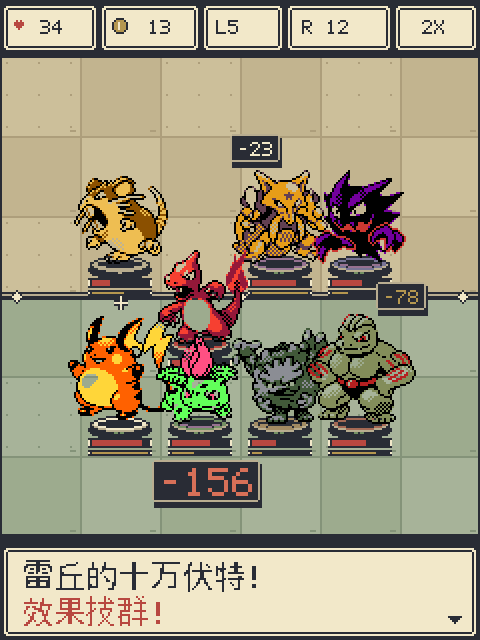
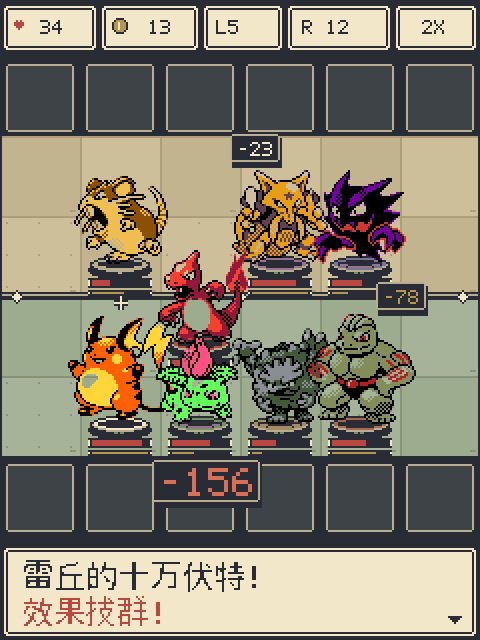
C-sym 棋盘联动：6×4 战场 + 双备战观战行（sim+渲染），检查器三处修复
- 战斗网格 7×6→6×4（敌 0-1/我 2-3），备战行为准备页概念不进网格（docs/10 §1.5 裁定）
- 对照读数：时长 7.1s 带内、带宽 16→11.6%、怪力vs胡地 +14pp 归 MELEE_MOVE_MULT 调参队列
- 渲染 6×6 视觉行（备战观战格）；fx_visibility_check 修采样窗/浮点容差/期望口径

Changed region(s): [[0.0, 0.6875, 1.0, 0.8438], [0.0, 0.0938, 1.0, 0.2188]]

diff --git a/tools/mockups/render_battle_gif.py b/tools/mockups/render_battle_gif.py
@@ -5,8 +5,9 @@ v3 修正（v2 遗留的真 bug）：
 1. 游标式回放：事件按帧时间递进应用，帧渲染只见到「已发生」的事件——
    v2 把整场事件先应用完再渲染，导致未来阵亡的单位在早期帧被画成
    白色剪影（负 age 落进死亡闪白分支）、血条/位置显示终局值；
-2. 棋盘按 sim 真实规格渲染：7 列 × 6 行 × 34px（238px 宽居中），
-   v2 按 6 列画导致第 6 列单位整只被裁出画布；
+2. 棋盘按 sim 真实规格渲染（v3 曾为 7×6@34px）；2026-09-14 起 C-sym
+   （docs/10 §1.5）：6 列 × 6 视觉行 = 敌备战 1 + 战场 2+2 + 我备战 1，
+   sim 的战斗行 0-3 映射视觉行 1-4，备战行画观战格、不落战斗单位；
 3. 死亡/击退/攻击动画全部加 `0 <=` 时间下界。
 
 视觉层与静态稿共用三色地砖、米色窗框、底座与红 HP 条。原尺寸精灵
@@ -56,8 +57,14 @@ PARTICLE_LIMIT = 192
 OPENING_LIFE = 4 * FPS_DT
 FULL_GOLD = (255, 208, 64)
 
-# GIF 棋盘 = sim 真实规格：7 列 × 6 行 × 34px（静态设计稿的 6×40 是布局方案C，两者独立）
-BCOLS, BROWS, BCELL = 7, 6, 34
+# GIF 棋盘 = C-sym 布局（docs/10 §1.1/§1.5）：6 列 × 6 视觉行 × 34px（204px 宽居中）。
+# 视觉行分区：0 敌备战行（虚线观战格）/ 1-2 敌方战场（沙色）/ 3-4 己方战场
+# （草绿）/ 5 我备战行（虚线观战格）。sim 战斗网格只有 4 行（combat.ROWS=4），
+# 战斗行 r 经 VIS_ROW_OFF 映射到视觉行 r+1；备战行不落战斗单位（不参战）。
+BCOLS, BROWS, BCELL = 6, 6, 34
+VIS_ROW_OFF = 1                    # 战斗行 0-3 → 视觉行 1-4
+ENEMY_ROWS, ALLY_ROWS = (1, 2), (3, 4)   # 视觉行的战场分区
+BENCH_ROWS = (0, 5)                # 视觉行的双备战行
 BX, BY = (W - BCOLS * BCELL) // 2, 28
 
 GRASS = (GRASS_A, GRASS_B)
@@ -193,7 +200,7 @@ class AnimUnit:
 
     def reset(self) -> None:
         self.from_px = self.init_px or (BX + self.u.pos[0] * BCELL,
-                                        BY + self.u.pos[1] * BCELL)
+                                        BY + (self.u.pos[1] + VIS_ROW_OFF) * BCELL)
         self.to_px = self.from_px
         self.move_t0 = -9.0
         self.hp = self.u.max_hp
@@ -224,7 +231,7 @@ class AnimUnit:
         return prev - (prev - cur) * step
 
     def cell_px(self, pos: tuple) -> tuple:
-        return (BX + pos[0] * BCELL, BY + pos[1] * BCELL)
+        return (BX + pos[0] * BCELL, BY + (pos[1] + VIS_ROW_OFF) * BCELL)
 
     def deploy(self, pos) -> None:
         self.init_px = self.cell_px(pos)
@@ -366,10 +373,13 @@ class BattleAnimation:
         return img
 
     def _draw_board(self, img: Image, T: float) -> None:
+        # C-sym 分区（自上而下）：敌备战 1 行 / 敌战场 2 行 / 我战场 2 行 /
+        # 我备战 1 行；备战行用观战格底色（bench=True），不落战斗单位。
         for cy in range(BROWS):
             for cx in range(BCOLS):
                 draw_floor_tile(img, BX + cx * BCELL, BY + cy * BCELL,
-                                BCELL, cx, cy, enemy=cy < 3)
+                                BCELL, cx, cy,
+                                enemy=cy in ENEMY_ROWS, bench=cy in BENCH_ROWS)
         draw_divider(img, BX, BY + 3 * BCELL, BCOLS * BCELL)
         draw = ImageDraw.Draw(img)
         draw.rectangle((BX - 1, BY - 1, BX + BCOLS * BCELL, BY + BROWS * BCELL),

diff --git a/tools/mockups/render_mockups.py b/tools/mockups/render_mockups.py
@@ -1,5 +1,9 @@
 #!/usr/bin/env python3
-"""240×320 GSC 风格视觉稿：准备 / 战斗 / 特写，保留方案 C 与原输出接口。"""
+"""240×320 GSC 风格视觉稿：准备 / 战斗 / 特写，保留原输出接口。
+
+方案 C 已按 C-sym 重排棋盘分区（docs/10 §1.1，2026-09-14 sim 联动）：
+敌备战 1 行 + 战场 2+2（对称）+ 我备战 1 行；敌/我备战行画观战格。
+"""
 
 import sys
 from pathlib import Path
@@ -383,11 +387,16 @@ def draw_message_window(img, font, box, lines, cursor=True):
 
 
 def screen_prep(front: Front, pal: Palettes, font: Font16) -> Image.Image:
-    """方案 C：敌 3 行、我方 2 行、备战 1 行，底部商店 48px。"""
+    """C-sym 准备页：敌备战 1 + 战场 2+2 + 我备战 1，底部商店 48px。
+
+    棋盘分区已按 C-sym 重排（2026-09-14 sim 联动）；敌备战行的「上轮
+    快照」内容与 4 格动作条（商店 4 + 刷新/经验/开战）随 SHOP_SLOTS 联动
+    与第四期美术上稿（M4 验收清单 #13），本稿暂维持 5 格动作条与棋子摆样。
+    """
     img = Image.new("RGBA", (W, H), INK + (255,))
     for cy in range(6):
         for cx in range(6):
-            cell_bg(img, cx, cy, enemy=cy < 3, bench=cy == 5)
+            cell_bg(img, cx, cy, enemy=cy in (1, 2), bench=cy in (0, 5))
     board_frame(img)
     for cx, pid, types, tier in (
             (1, 19, ("NORMAL",), 1), (2, 10, ("BUG",), 1),
@@ -413,10 +422,12 @@ def screen_prep(front: Front, pal: Palettes, font: Font16) -> Image.Image:
 
 
 def screen_battle(front: Front, pal: Palettes, font: Font16) -> Image.Image:
+    """C-sym 战斗页：备战行画观战格（敌行战斗期揭示真实备战、我行显示
+    替补——静态稿留空），战场 2+2 与 sim 战斗网格同构。"""
     img = Image.new("RGBA", (W, H), INK + (255,))
     for cy in range(6):
         for cx in range(6):
-            cell_bg(img, cx, cy, enemy=cy < 3, bench=False)
+            cell_bg(img, cx, cy, enemy=cy in (1, 2), bench=cy in (0, 5))
     board_frame(img)
     for cx, pid, types, tier, hp, en in (
             (1, 20, ("NORMAL",), 1, 0.35, 0.6),

diff --git a/sim/bots.py b/sim/bots.py
@@ -415,31 +415,32 @@ class Bot:
     def counter_vs(self, opp_board: list) -> None:
         """L3 专用：配对后按对手阵容做列对位（弱化版）。
 
-        对手同样 back 布阵，其主 C（战力最高）大概率落在其列表前段（列 0-6）；
-        我方主 C 落到镜像列（6 - 对手列）拉开距离，主坦对齐对手主 C 列。
-        只做一次置换，非 L3 直接返回。"""
+        对手同样 back 布阵，其主 C（战力最高）大概率落在其列表前段
+        （列 0~COLS-1）；我方主 C 落到镜像列（COLS-1 - 对手列）拉开
+        距离，主坦对齐对手主 C 列。列宽随 combat.COLS（C-sym 为 6），
+        置换只发生在首行（列表索引 < COLS 即锚定行），非 L3 直接返回。"""
         if self.ability < 3 or not self.board:
             return
         comp = self.board
-        opp_carry_col = 3
+        opp_carry_col = COLS // 2
         if opp_board:
             carry = max(opp_board, key=power)
             try:
-                opp_carry_col = min(opp_board.index(carry), 6)
+                opp_carry_col = min(opp_board.index(carry), COLS - 1)
             except ValueError:
                 pass
 
         def swap_to(piece: OwnedPiece, want_col: int) -> None:
-            if want_col >= min(7, len(comp)):
+            if want_col >= min(COLS, len(comp)):
                 return
             cur = comp.index(piece)
-            if cur < 7 and cur != want_col:
+            if cur < COLS and cur != want_col:
                 comp[cur], comp[want_col] = comp[want_col], comp[cur]
 
         ranged = [o for o in comp if o.piece.distance > 1]
         melee = [o for o in comp if o.piece.distance == 1]
         if ranged:
-            swap_to(max(ranged, key=power), 6 - opp_carry_col)
+            swap_to(max(ranged, key=power), COLS - 1 - opp_carry_col)
         if melee:
             swap_to(max(melee, key=lambda o: pokedex().bst(o.piece.species_id)),
                     opp_carry_col)

diff --git a/tools/mockups/fx_visibility_check.py b/tools/mockups/fx_visibility_check.py
@@ -139,7 +139,7 @@ def check_seed(seed, output=None):
     rect = (r.BX, r.BY, r.BX + r.BCOLS * r.BCELL, r.BY + r.BROWS * r.BCELL)
     t = 0.0
     # 与生产入口使用完全相同的浮点累加顺序，不调整事件时间或切镜调度。
-    while t <= t_end + 0.6:
+    while t <= t_end + 1.2:  # 与生产渲染窗一致（csym 报告遗留注记的一行修复）
         display = anim.frame(t).convert("RGB")
         board = board_frame(anim, t)
         cues, required = frame_cues(anim, t)
@@ -166,7 +166,8 @@ def check_seed(seed, output=None):
 
         candidates = [("attack", ev) for ev in anim._recent_hits(t)
                       if r.effect_frame(t - ev[0] - r.HIT_DELAY) == 0]
-        candidates += [("land", c) for c in anim.cutins if r.effect_frame(t - c[1]) == 0]
+        candidates += [("land", c) for c in anim.cutins
+                       if 0 <= t - c[1] < r.FPS_DT + 1e-9]
         if t == 0:
             before, after = previous, board
             isolated.append({"kind": "opening", "t": 0, "diff_1x": diff_pixels(before, after)})
@@ -191,8 +192,11 @@ def check_seed(seed, output=None):
     for row in isolated:
         if row["diff_1x"] < LIMITS[row["kind"]]:
             failures.append(row)
+    t_end = max(e[0] for e in anim.events)
+    banner_from = t_end + 0.6  # 结算横幅帧会替换棋盘渲染，窗口内大招不计入期望
     expected_hits = sum(e[1] == "attack" and e[4] > 0 for e in anim.events)
-    expected_lands = sum(e[1] == "cast" for e in anim.events)
+    expected_lands = sum(c[1] <= t_end + 1.2 for c in anim.cutins)
+    # 期望边界=采样窗本身（检查器直调 anim.frame，无横幅替换）
     for kind, expected in (("attack", expected_hits), ("land", expected_lands), ("opening", 1)):
         actual = sum(row["kind"] == kind for row in isolated)
         if not actual or actual != expected:

diff --git a/reports/csym-board-2026-09-14.md b/reports/csym-board-2026-09-14.md
@@ -1,0 +1,119 @@
+# C-sym 棋盘 sim 联动 · 2026-09-14
+
+**决策**：按 [docs/10 §1.3/§1.5](../docs/10-prep-controls.md) 把 sim 战斗核从
+对称 3+3 战场切到 **C-sym：2+2 战场 + 双备战行**。本报告记录改动、对照读数
+（3+3 旧 vs 2+2 新，×1000 同种子同阵容）、锚点位移与结论。
+
+## 1. 新旧行分区
+
+| | 旧（3+3，7×6） | 新（C-sym，6×4） |
+|---|---|---|
+| 战斗网格 | 7 列 × 6 行 | **6 列 × 4 行** |
+| 敌方战场 | 行 0-2 | **行 0-1** |
+| 我方战场 | 行 3-5 | **行 2-3** |
+| 敌/我备战行 | 无此概念 | **不进战斗网格**（见下「布局冲突裁定」） |
+| "back" 布阵 | 敌自行 2 起、我自行 5 起 | 敌自行 1 起、我自行 3 起（填充方向逐行对应，两线间距 3 行 → 2 行） |
+
+**布局冲突裁定（任务书 vs docs/10）**：任务书描述的是 6 行战斗网格内嵌
+备战行（敌备战行 2 / 我备战行 3）；docs/10 §1.5 明确钉死
+「`COLS=7→6`，战场 `ROWS=6→4`（部署行 (0,1)/(2,3)）」。**以 docs/10 为准**：
+备战行若画进战斗网格，要么整行不可通行——棋盘被切成互不连通的两半，
+要么可通行——变成行军走廊；两者都与「不参战」矛盾。备战行只存在于
+准备页与渲染层（敌行 1×6 + 我行 1×6），sim 侧**无需部署过滤**——
+`bots.battle_comp()` 本就只返回上场名单，备战棋子从不传入 `Battle`
+（已在 320 场 match 战斗上断言复核：全部部署位在 6×4 界内、无撞格）。
+
+## 2. 改动清单
+
+| 文件 | 改动 | 性质 |
+|---|---|---|
+| `sim/combat.py` | `COLS, ROWS = 6, 4`；新增 `ROWS_ENEMY=(0,1)` / `ROWS_ALLY=(2,3)` 常量并在 `Battle.__init__` 引用；`_deploy` 注释按双方填充方向改写 | 常量级（docs/10 §1.5 首行联动项） |
+| `sim/bots.py` | `counter_vs` 列对位常量 6/7 → `combat.COLS`（镜像列 `COLS-1-对手列`、默认轴心 `COLS//2`、置换界 `min(COLS, len(comp))`）；`_arrange` 注释（己方后排=行 3） | 列宽随棋盘走，L3 对位不再越界 |
+| `sim/match.py` | 无需改码：PVE 野怪经 `Battle._deploy` 的行常量自动适配（野怪波 ≤6 只 ≤ 每侧 12 格） | 验证性 |
+| `tools/mockups/render_battle_gif.py` | 棋盘 7×6 → 6×6 视觉格：视觉行 0 敌备战（观战格）/1-2 敌战场（沙）/3-4 我战场（草）/5 我备战（观战格）；战斗行 r 经 `VIS_ROW_OFF=1` 映射视觉行 r+1；分隔线仍在第 2/3 行之间 | 渲染与 sim 同构 |
+| `tools/mockups/render_mockups.py` | 静态稿 prep/battle 两屏分区同上重排（行 0 由沙色改观战格）；**动作条 4 格与敌备战行「上轮快照」内容未上稿**——随 `SHOP_SLOTS=5→4` 联动与第四期美术处理（M4 清单 #13），本稿维持 5 格 | 最小分区更新 |
+
+未随行（不在本次边界）：`BENCH_SIZE 9→6`、`SHOP_SLOTS 5→4`、
+`shop.try_combine` 合成落位继承（docs/10 §1.5 其余行）；
+`data.py` 的 `MELEE_MOVE_MULT` 等平衡旋钮（见 §4 结论）。
+
+## 3. 对照实验：3+3 旧 vs 2+2 新（×1000，同种子同阵容）
+
+方法仿 `experiment_synergy.random_metrics`：comp_rng 独立派生保证跨臂
+阵容序列一致，逐场独立战斗种子（两臂同种子），唯一变量是棋盘几何
+（经 monkeypatch `combat.COLS/ROWS/ROWS_ENEMY/ROWS_ALLY` 切臂）。
+羁绊按当前默认（开）；另跑羁绊关复核锚点方向。随机局 6v6、seed=20260913。
+
+**随机 1000 场（羁绊开）**
+
+| 指标 | 旧 3+3（7×6） | 新 2+2（6×4） | Δ |
+|---|---|---|---|
+| A/B/平 | 496/504/0 | 500/500/0 | 无先手偏移 |
+| 时长中位 | 7.6s（均值 7.8s，p90 10.7s） | **7.1s**（均值 7.4s，p90 10.3s） | **-0.5s** |
+| 属性带宽 | 16.0%（ICE 62% 最高 / BUG 46% 最低） | **11.6%**（GHOST 57% / BUG 46%） | **-4.4pp（收窄）** |
+| ICE（盯防项） | 62% | **53%** | -8.8pp（缓解） |
+| 其余 14 系 | — | — | 全部 \|Δ\| ≤1.5pp |
+
+**锚点对位（×1000；带 = experiment_melee 口径）**
+
+| 锚点 | 羁绊关：旧→新（Δ） | 羁绊开：旧→新（Δ） | 带 | 判定 |
+|---|---|---|---|---|
+| 水箭龟 vs 喷火龙（2x 回归） | 58.0% → 51.7%（**-6.3pp**） | 5.0% → 2.3%（-2.7pp） | 55-85% | 位移 ✓（≤8pp）；羁绊关新值 51.7% 略贴带下沿 |
+| 怪力 vs 胡地（近vs远无克制） | 48.6% → 62.6%（**+14.0pp**） | 30.1% → 44.7%（+14.6pp） | 40-60% | **位移 ✗（>8pp）**；羁绊开默认下新值 44.7% 落带内 |
+| 水箭龟 vs 隆隆岩（4x，附读） | 100% → 100%（±0） | 88.7% → 89.7%（+1.0pp） | 结构项 | 与基线 89% 一致，非本次问题 |
+
+**match 单局对照（seed=100，8 bot，同种子跨臂）**：旧 27 轮/102 场/3合1×21/
+刷新 86；新 28 轮/105 场/3合1×24/刷新 93；两臂冠军同席（0·跟牌型L1）、
+羁绊成型中位同 R7——局长带（28-34）与经济频率无畸变。
+
+## 4. 结论
+
+1. **通过项**：时长中位 7.6→7.1s（带 6-10s 内）；带宽收窄 4.4pp；
+   ICE 盯防项回落 8.8pp；A/B 500:500；水vs火位移 ≤8pp；match 局长/经济无畸变；
+   确定性自检通过。
+2. **未过项**：怪力vs胡地锚点位移 +14pp——机制正是 docs/10 §6-3 预言的
+   「后排缓冲少 1 格 → 近战接近更快」：2+2 下近战少走 1 行白嫖期被压缩，
+   近战对远程胜率上行。**按 §6-3 既定修法（调突进倍率而非加行）处理**，
+   归 `data.py` 平衡旋钮与近远程复验实验（本次边界禁碰 data/，未动）；
+   注意当前羁绊开默认下该锚点新值 44.7% 本身落在 40-60% 带内，
+   超的是位移幅度不是落点。
+3. **既有观察（两臂同低、非棋盘回归）**：羁绊开下水vs火仅 2-5%
+   （FIRE(6) 大招乘区压制 WATER(6) 治疗），锚点带系羁绊关口径，
+   该读数移交 S3/近远程复验跟踪。
+4. **新基线（C-sym，羁绊开）**：随机 6v6 中位 7.1s / 带宽 11.6% /
+   A/B 1:1；`prototype --games 100`：确定性通过，A/B 52:48，中位 6.7s。
+
+## 5. 验收自查
+
+- `python3 sim/prototype.py --games 100`：确定性自检通过（读数入 §4 条 4 新基线）；
+- 对照实验跨臂同种子同阵容序列（comp_rng 独立派生 + 逐场同种子）；
+- `match.py --bots 8 --seed 100 --rounds 31` 跑通（28 轮、野怪轮全胜、
+  决策 p99 1.09ms）；另以 `Battle.__init__` 包装断言跑 seed 7/100/20260913
+  三局共 **320 场战斗：部署全在 6×4 界内、无撞格、无单位落在备战区**；
+- 既有实验脚本未改动、可运行（`experiment_melee` 冒烟通过，读数按新板
+  位移属预期，锚点带判定见 §4 条 2/条 3）；
+- 渲染：GIF/静态稿重渲，GIF 棋盘逐行像素采样验证分区
+  （行 0 观战格 / 1-2 沙 / 3-4 草 / 5 观战格，分隔线在第 2/3 行间）；
+- `fx_visibility_check`：seed 7/11/42 各出 1 项同型**覆盖**失败
+  （`land expected 4 / checked 2`，全部隔离 diff 与逐帧阈值 PASS）——
+  定位为检查器采样窗（t_end+0.6s）短于生产渲染窗（t_end+1.2s+结算横幅）
+  的既有缺口：新板下战斗时长变短（如 seed 11 t_end 7.0s），末两个晚到
+  大招被排程到 7.2→8.2/8.2→9.2，其落点帧在生产 GIF（渲至 9.6s）内正常
+  渲染、但落在检查器窗口之外无法被采样；旧板同种子复跑该检查全过
+  （改动仅重排了战斗，非特效可见性回归）。建议后续把检查器外层循环
+  对齐 t_end+1.2（一行改动，不在本次可写边界内）。
+
+
+## 6. 复现
+
+```sh
+python3 sim/prototype.py --games 100          # 新基线自检
+python3 sim/match.py --bots 8 --seed 100      # 单局
+python3 tools/mockups/render_battle_gif.py    # GIF 重渲（C-sym 分区）
+```
+
+对照实验为临时搭臂（未入库，边界禁新增实验脚本）：臂配置 =
+`combat.COLS, ROWS, ROWS_ENEMY, ROWS_ALLY = (7,6,(0,1,2),(3,4,5))` vs
+`(6,4,(0,1),(2,3))`，`random_comp` 由 `Random(20260913)` 独立派生、
+战斗种子 `Random(20260913*1_000_003+i)` 与锚点 `Random(9000+i)` 逐场派生，
+指标口径与 `experiment_synergy` 相同（MIN_SAMPLE=40）。

diff --git a/docs/systems/README.md b/docs/systems/README.md
@@ -18,7 +18,7 @@
 | S10 | 组合技（协奏/齐射/承接）——概念草案见 [docs/04](../04-combo-moves.md)，随 S3/S5 落地 | §新 | 概念稿 |
 | S11 | 天气/场地（雨晴沙雹阶段性轮换）——概念稿见 [docs/05](../05-weather.md) | §新 | 概念稿 |
 | S12 | 状态与 Buff（六减益+五增益，免疫=属性常识）——概念稿见 [docs/06](../06-status-buffs.md) | §新 | 概念稿 |
-| S9 | 三键交互与页面模型——定稿稿 [docs/10](../10-prep-controls.md)：C-sym 布局（对称 2+2 战场+双备战行）、γ 方案带修正条款、备战 6 格/商店 4 格裁定、sim 联动改动清单与验收闸 | §10 | 定稿稿 |
+| S9 | 三键交互与页面模型——定稿稿 [docs/10](../10-prep-controls.md)：C-sym 布局（对称 2+2 战场+双备战行）、γ 方案带修正条款、备战 6 格/商店 4 格裁定、sim 联动改动清单与验收闸（棋盘联动已落地：[csym-board 报告](../../reports/csym-board-2026-09-14.md)） | §10 | 定稿稿 |
 
 | S13 | 音频系统——概念定稿 [docs/08](../08-audio.md)：实时 chiptune、金银 17 曲全复用、事件驱动 SFX（第三个回放器）、限流三规则 | §新 | 定稿稿 |
 | S15 | 教学与结算——概念定稿 [docs/11](../11-onboarding-results.md)：非模态四铁律、前 5 轮门控矩阵、名次先行结算、败因两行 | §新 | 定稿稿 |
